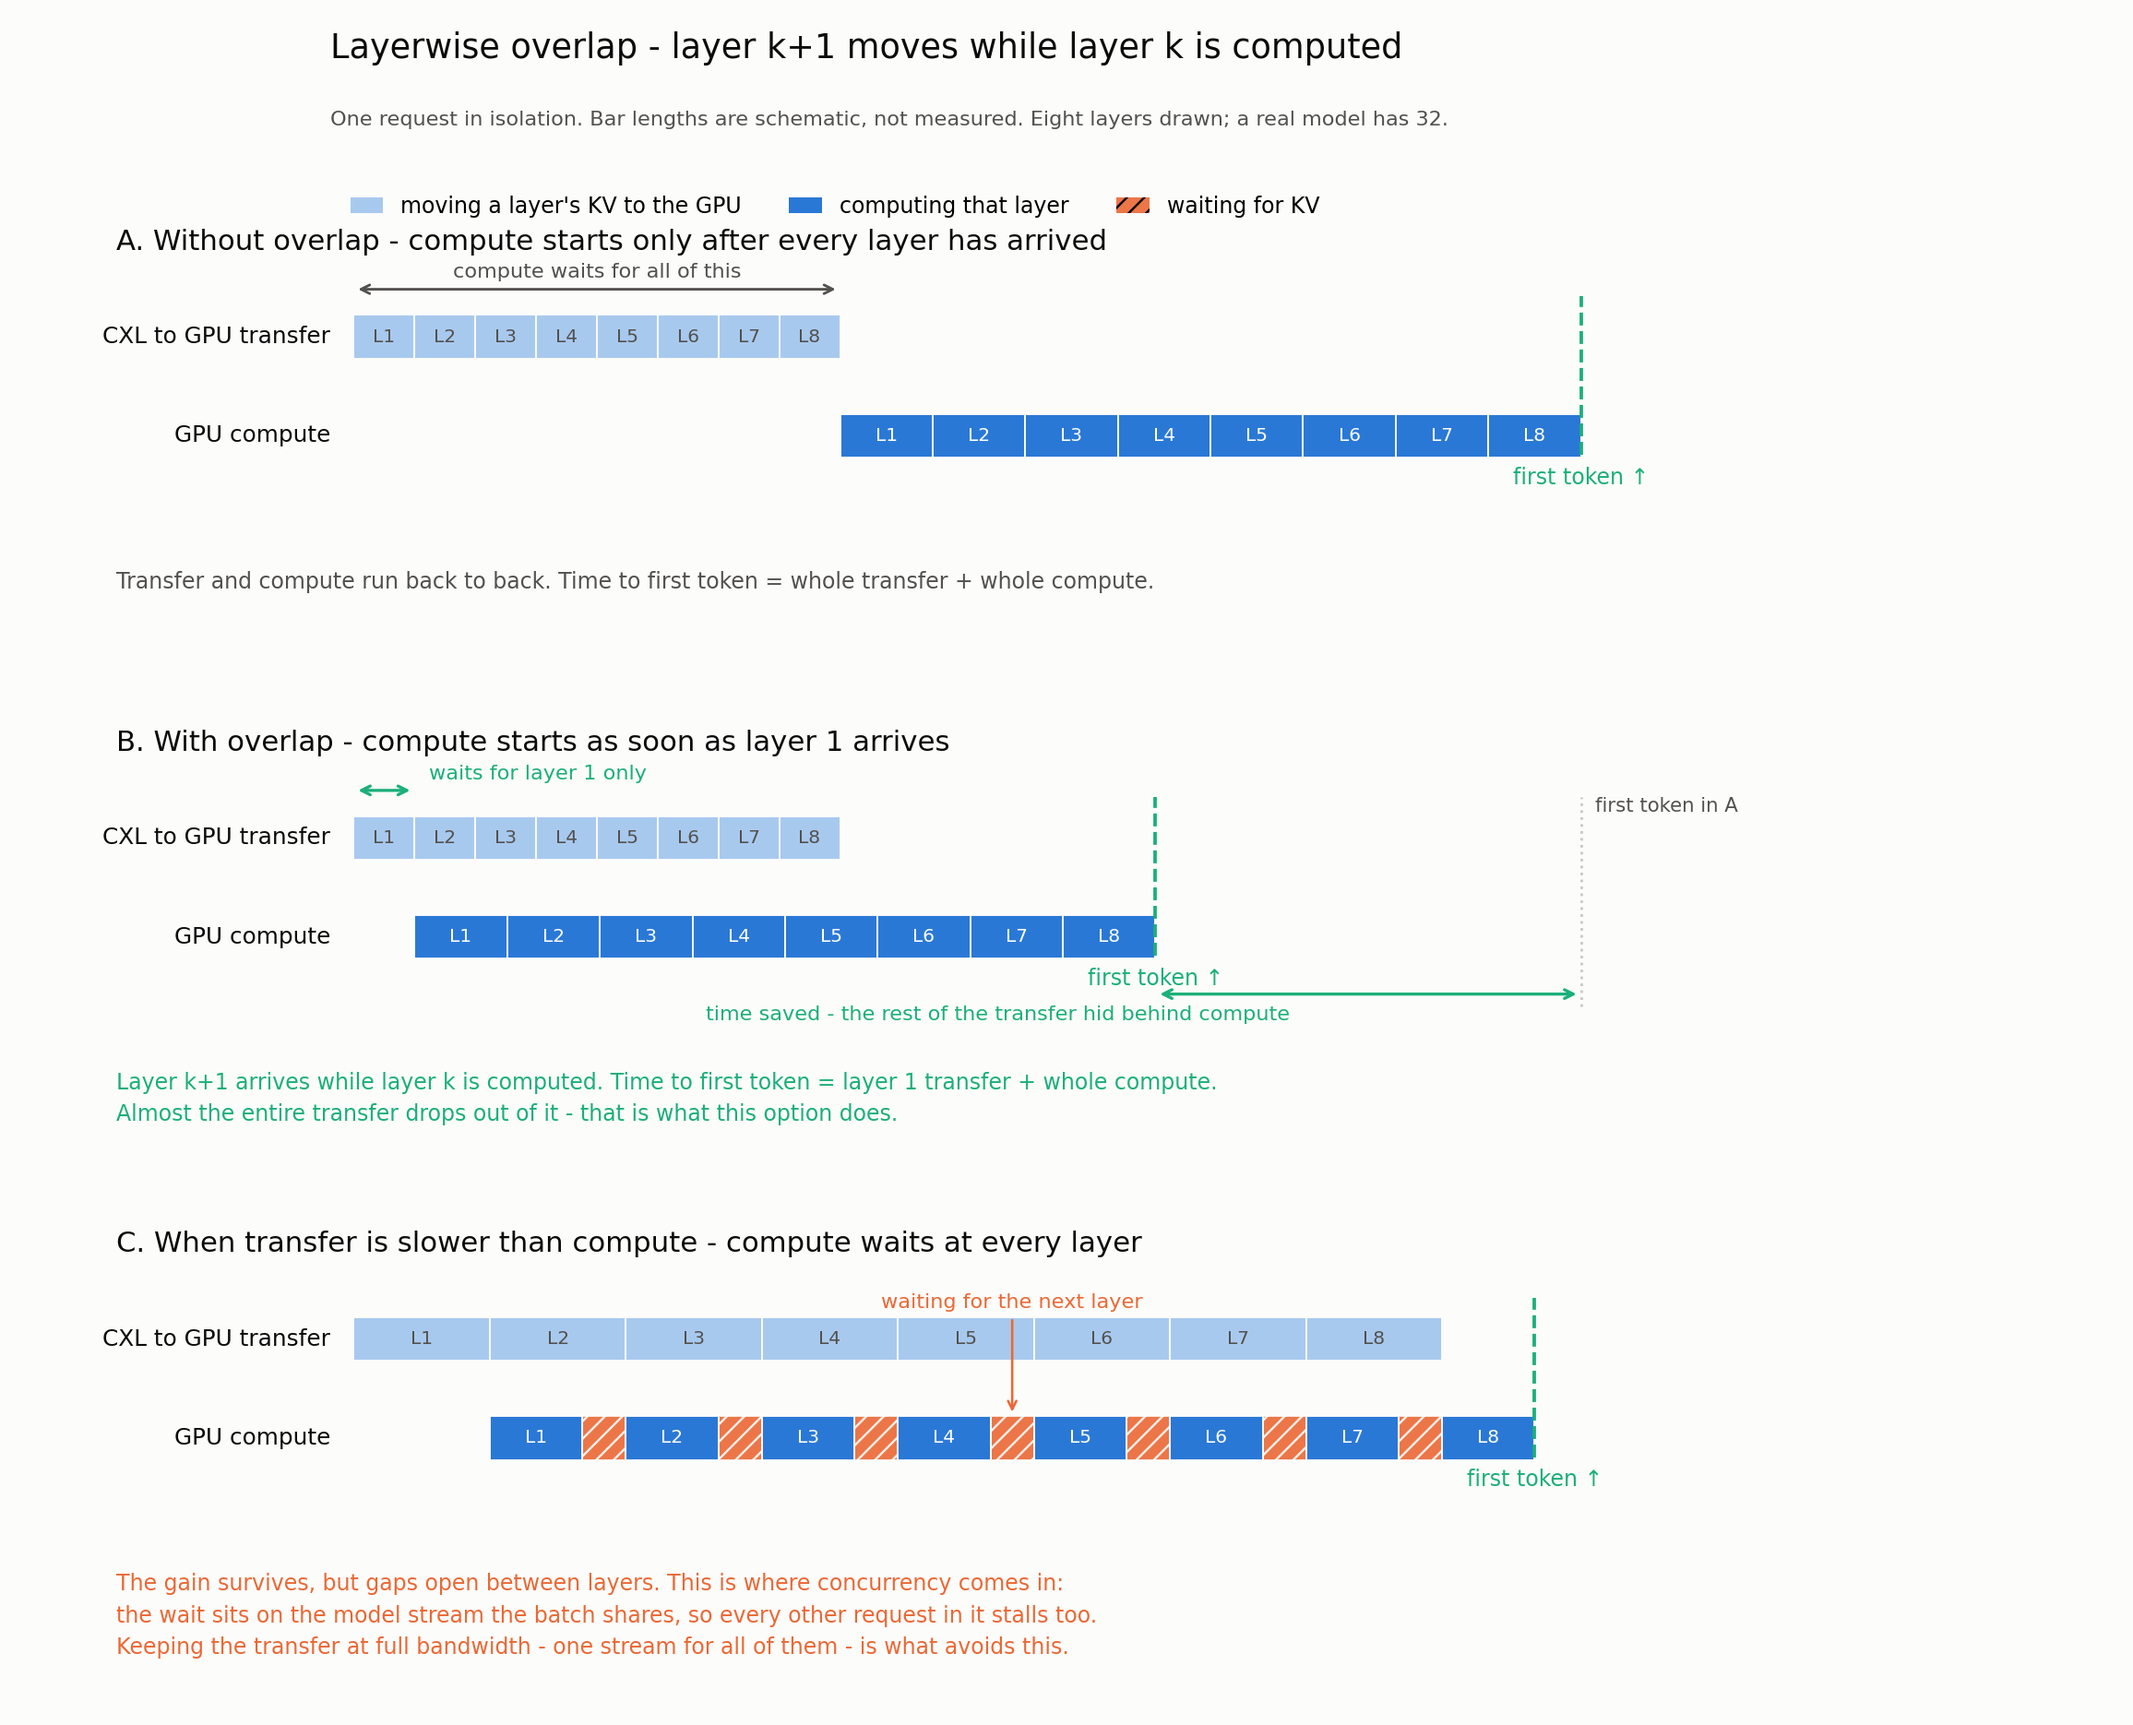
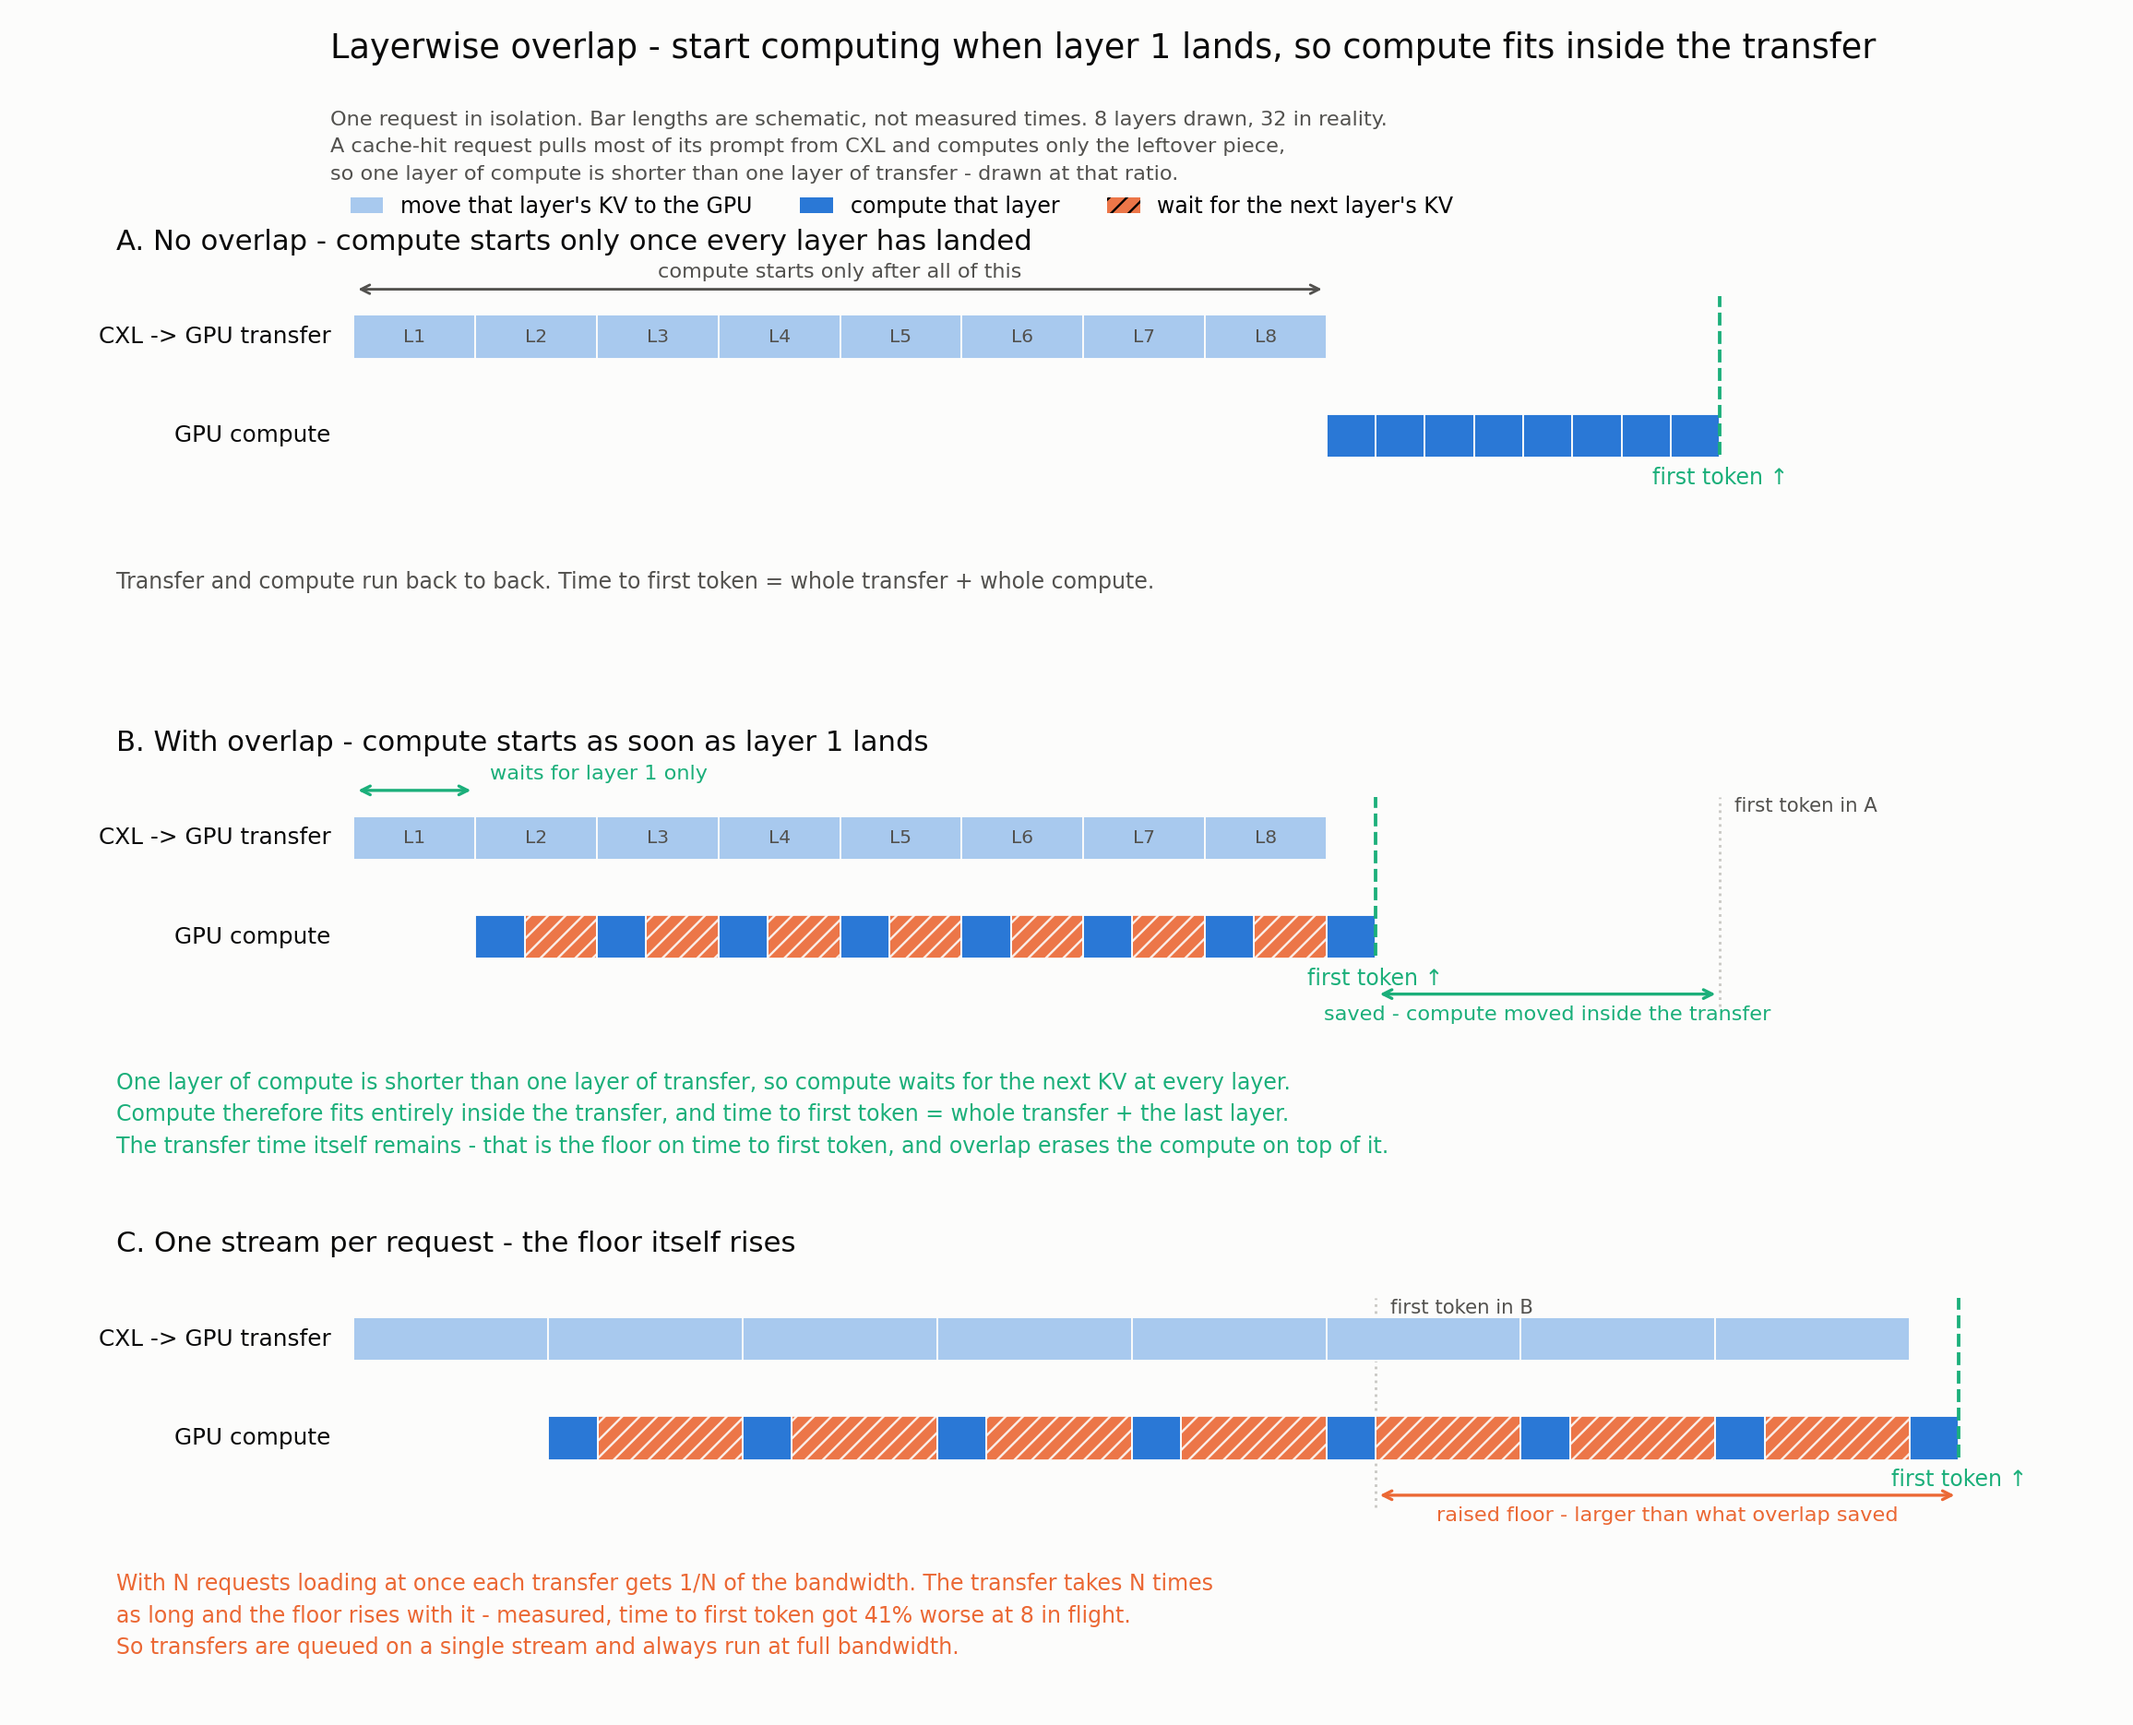
docs(maru_vllm): correct what layerwise overlap removes from TTFT

diff --git a/docs/source/integration/vllm.md b/docs/source/integration/vllm.md
@@ -274,23 +274,24 @@ requires `maru_async_load`; it pipelines a request's per-layer transfers
 against attention compute. The connector logs a warning and disables it when
 those prerequisites are not met.
 
-![Layerwise overlap: without overlap compute waits for the whole transfer; with overlap it starts once layer 1 has arrived and the rest of the transfer hides behind compute; when transfer is slower than compute, gaps open at every layer and stall the rest of the batch too](../image/layerwise_overlap_concept.png)
+![Layerwise overlap: without overlap compute waits for the whole transfer; with overlap it starts once layer 1 has arrived, so compute fits inside the transfer and the transfer time is what remains as the floor; giving each request its own stream splits the bandwidth and raises that floor](../image/layerwise_overlap_concept.png)
 
 The loader thread queues the per-layer copies while the request is still
-parked and the request is released once its first layer has landed, so the
-remaining layers arrive during its own attention rather than being issued
-inside the forward pass. All parked-request transfers share one stream. That
-keeps each at full CXL bandwidth — splitting them across streams makes the
-per-layer transfer time scale with the number of loading requests and overrun
-per-layer compute — and it means a later request's first layer only lands
-once the earlier one has finished, so requests take their turn without any
-extra admission mechanism.
+parked and the request is released once its first layer has landed, so its
+prefill compute runs while the remaining layers arrive rather than after them.
+A cache-hit request computes only the tokens left over past its cached chunks,
+so one layer of compute is shorter than one layer of transfer: the compute
+fits inside the transfer and the transfer time is what sets time to first
+token. All parked-request transfers share one stream. That keeps each at full
+CXL bandwidth — splitting them across streams makes each transfer take as many
+times longer as there are loading requests, raising that floor — and it means
+a later request's first layer only lands once the earlier one has finished, so
+requests take their turn without any extra admission mechanism.
 
-The knob therefore applies at any concurrency. On a 16k prompt with a 66%
-external hit rate it lowered cache-hit TTFT by 24%, 25% and 17% at 2, 4 and 8
-concurrent requests, and raised throughput throughout; per-token generation
-time rose 4-5% at 4 and 8 concurrent requests, which is the cost of every
-request starting earlier.
+The knob therefore applies at any concurrency. On a 16k prompt it lowered
+cache-hit TTFT by 24%, 25% and 17% at 2, 4 and 8 concurrent requests, and
+raised throughput throughout; per-token generation time rose 4-5% at 4 and 8
+concurrent requests, which is the cost of every request starting earlier.
 
 ### maru_kv_chunk_tokens
 
